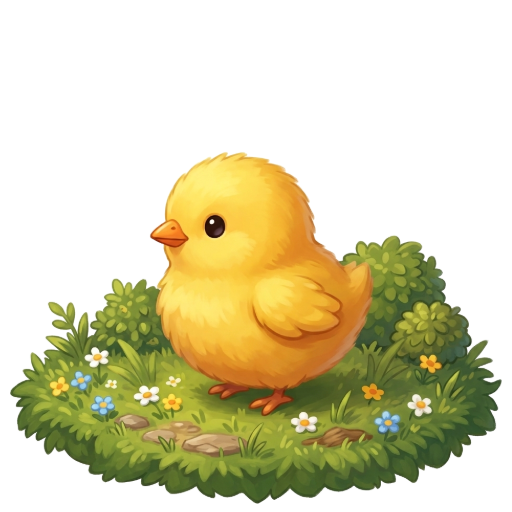
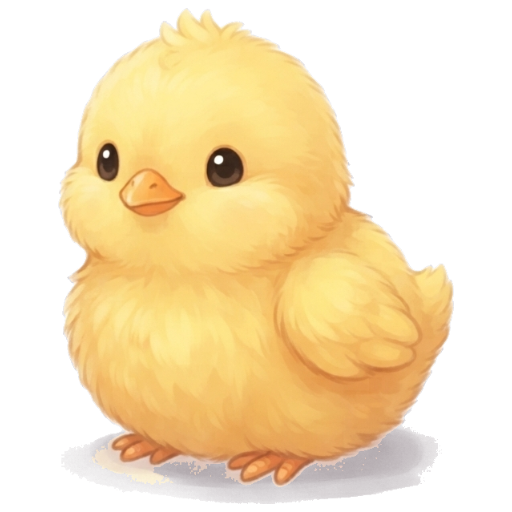
Nouveaux lapin, coq et poussin sans socle ; blé en 4 images
Les trois animaux refaits sans socle d'herbe remplacent les précédents,
avec une taille propre à chacun sur la carte. Le champ de blé utilise
maintenant une vraie image par étape (bac vide, graines, pousses, blé
mûr) au lieu de la simulation. Le détourage transforme les ombres
claires en ombres douces semi-transparentes.

Claude-Session: https://claude.ai/code/session_0134iGvRVWYpuqCzS6Q4VqG1

diff --git a/village/app.js b/village/app.js
@@ -116,7 +116,9 @@ const BUILDINGS = {
   stadium:  { cat: "batiments",  name: "Stade",         img: "stadium",           cost: 110, level: 7 },
   castle:   { cat: "batiments",  name: "Château",       img: "castle",            cost: 150, level: 8 },
   // Production : on plante, on arrose (gouttes gagnées en jouant), on récolte des étoiles
-  wheat:    { cat: "production", name: "Champ de blé",  img: "sheaf_of_rice", cost: 8,  level: 1, harvest: 2 },
+  // stages : une image par étape (terre vide, graines, pousses, mûr) ; sinon la même image est simulée
+  wheat:    { cat: "production", name: "Champ de blé",  img: "wheat_ripe",    cost: 8,  level: 1, harvest: 2,
+              stages: ["crop_empty", "crop_seed", "wheat_sprout", "wheat_ripe"] },
   carrot:   { cat: "production", name: "Potager",       img: "carrot",        cost: 10, level: 1, harvest: 2 },
   sunflower:{ cat: "production", name: "Tournesols",    img: "sunflower",     cost: 12, level: 2, harvest: 3 },
   corn:     { cat: "production", name: "Maïs",          img: "ear_of_corn",   cost: 14, level: 2, harvest: 3 },
@@ -166,9 +168,10 @@ const DECO_TABS = [
 
 // Animaux : ils se promènent tout seuls (right = l'image regarde à droite)
 const ANIMALS = {
-  chick:    { name: "Poussin",  img: "baby_chick", cost: 5,  level: 1 },
-  rooster:  { name: "Coq",      img: "rooster",    cost: 10, level: 1 },
-  rabbit:   { name: "Lapin",    img: "rabbit",     cost: 15, level: 1 },
+  // size : taille relative sur la carte (1 = taille normale)
+  chick:    { name: "Poussin",  img: "baby_chick", cost: 5,  level: 1, size: 0.6 },
+  rooster:  { name: "Coq",      img: "rooster",    cost: 10, level: 1, size: 0.95 },
+  rabbit:   { name: "Lapin",    img: "rabbit",     cost: 15, level: 1, size: 0.75 },
   snail:    { name: "Escargot", img: "snail",      cost: 8,  level: 1, speed: 0.25 },
   duck:     { name: "Canard",   img: "duck",       cost: 15, level: 2 },
   hedgehog: { name: "Hérisson", img: "hedgehog",   cost: 18, level: 2 },
@@ -586,10 +589,14 @@ function buildingEl(i, built, pos) {
   const isHouse = built.id === "house";
   const def = isHouse ? HOUSE[built.lvl - 1] : BUILDINGS[built.id];
   const production = BUILDINGS[built.id].cat === "production";
+  const stages = production && BUILDINGS[built.id].stages;
   const el = document.createElement("button");
-  el.className = "obj building" + (production ? " sway crop " + STAGE_CLASS[cropStage(built)] : "");
+  el.className = "obj building" + (production
+    ? " crop " + (stages ? "drawn" : "sway " + STAGE_CLASS[cropStage(built)])
+    : "");
   el.dataset.plot = i;
-  let html = `<img src="${IMG(def.img)}" alt="${def.name}">`;
+  const image = stages ? stages[cropStage(built) + 1] : def.img;
+  let html = `<img src="${IMG(image)}" alt="${def.name}">`;
   if (isHouse) html += `<span class="lvl-badge">${built.lvl}</span>`;
   if (production) {
     const [icon, label] = cropBubble(built);
@@ -938,7 +945,7 @@ function syncAnimals() {
     el._x = start.x;
     el._y = start.y;
     el._next = Date.now() + rand(500, 3000);
-    place(el, start.x, start.y, SIZE.animal);
+    place(el, start.x, start.y, SIZE.animal * (def.size || 1));
     el.addEventListener("click", e => {
       e.stopPropagation();
       el.classList.remove("jump");

diff --git a/village/sw.js b/village/sw.js
@@ -5,7 +5,7 @@
    images sont mises en cache dès l'installation. La sauvegarde
    du monde est dans localStorage, elle n'est jamais touchée ici.
    ========================================================= */
-const CACHE = "petit-monde-v7";
+const CACHE = "petit-monde-v8";
 const FILES = [
   "./", "index.html", "style.css", "app.js", "manifest.json", "icons/icon-192.png",
   "img/baby_chick.png", "img/bank.png", "img/bear.png", "img/billed_cap.png", "img/blossom.png",
@@ -14,7 +14,7 @@ const FILES = [
   "img/camping.png", "img/carousel_horse.png", "img/carrot.png", "img/castle.png", "img/cat.png",
   "img/chart_increasing.png", "img/check_mark_button.png", "img/cherry_blossom.png",
   "img/chipmunk.png", "img/circus_tent.png", "img/convenience_store.png", "img/cow.png",
-  "img/crown.png", "img/deciduous_tree.png", "img/dog.png", "img/droplet.png", "img/duck.png", "img/ear_of_corn.png",
+  "img/crown.png", "img/deciduous_tree.png", "img/crop_empty.png", "img/crop_seed.png", "img/dog.png", "img/droplet.png", "img/duck.png", "img/ear_of_corn.png",
   "img/evergreen_tree.png", "img/ewe.png", "img/ferris_wheel.png", "img/fountain.png",
   "img/four_leaf_clover.png", "img/fond-carte.webp", "img/fox.png", "img/gear.png", "img/girl_dark.png",
   "img/girl_default.png", "img/girl_light.png", "img/girl_medium.png", "img/girl_medium_dark.png",
@@ -30,7 +30,7 @@ const FILES = [
   "img/school.png", "img/seedling.png", "img/sheaf_of_rice.png", "img/snail.png",
   "img/sparkles.png", "img/speaker_high_volume.png", "img/stadium.png", "img/star.png",
   "img/strawberry.png", "img/sunflower.png", "img/swan.png", "img/tent.png", "img/top_hat.png",
-  "img/tractor.png", "img/trophy.png", "img/tulip.png", "img/turtle.png", "img/wood.png",
+  "img/tractor.png", "img/trophy.png", "img/tulip.png", "img/turtle.png", "img/wheat_ripe.png", "img/wheat_sprout.png", "img/wood.png",
   "img/wrapped_gift.png"
 ];
 

diff --git a/village/style.css b/village/style.css
@@ -479,8 +479,8 @@ img { -webkit-user-drag: none; user-select: none; }
 
 /* cultures : la même image, plus petite et plus pâle tant qu'elle pousse */
 .obj.crop img { position: relative; transform-origin: 50% 95%; transition: scale .5s, filter .5s; }
-/* parcelle de terre labourée sous chaque culture */
-.obj.crop::before {
+/* parcelle de terre labourée sous chaque culture (sauf si l'image a son propre bac) */
+.obj.crop:not(.drawn)::before {
   content: "";
   position: absolute;
   left: 6%; right: 6%;

diff --git a/village/KIT-GRAPHIQUE.md b/village/KIT-GRAPHIQUE.md
@@ -74,7 +74,7 @@ et la prairie ne tomberaient plus au bon endroit.
 | Fichier | Dans le jeu | Sujet |
 |---|---|---|
 | ✅ `baby_chick.png` | Poussin (et table de 1) | `fluffy yellow baby chick, full body, side view facing left` |
-| `rabbit.png` | Lapin | `cute grey-white rabbit sitting, full body, side view facing left` |
+| ✅ `rabbit.png` | Lapin | `cute grey-white rabbit sitting, full body, side view facing left` |
 | `cat.png` | Chat (et table de 5) | `cute orange tabby cat standing, full body, side view facing left` |
 | `dog.png` | Chien (et table de 6) | `cute light brown puppy standing, full body, side view facing left` |
 | `cow.png` | Vache (et table de 8) | `cute black and white cow standing, full body, side view facing left` |
@@ -113,7 +113,7 @@ et la prairie ne tomberaient plus au bon endroit.
 
 | Fichier | Dans le jeu | Sujet |
 |---|---|---|
-| `sheaf_of_rice.png` | Champ de blé | `small square field of golden wheat` |
+| ✅ `wheat_*.png` (4 étapes, `crop_empty.png` / `crop_seed.png` réutilisables) | Champ de blé | `small square field of golden wheat` |
 | `carrot.png` | Potager | `small vegetable garden patch with carrots growing` |
 | `sunflower.png` | Tournesols | `small patch of sunflowers` |
 | `ear_of_corn.png` | Maïs | `small patch of corn plants` |
